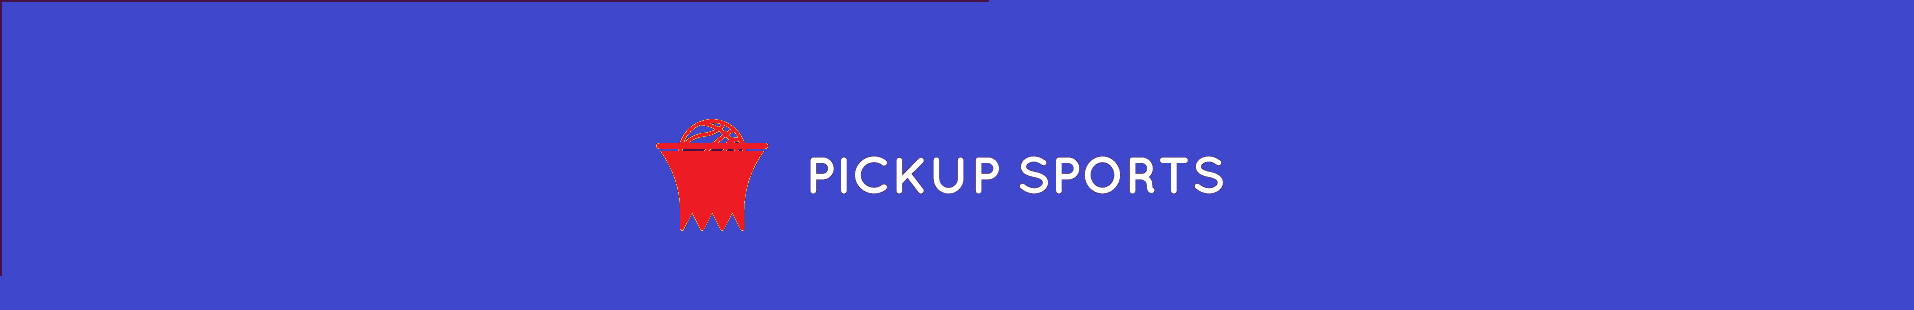
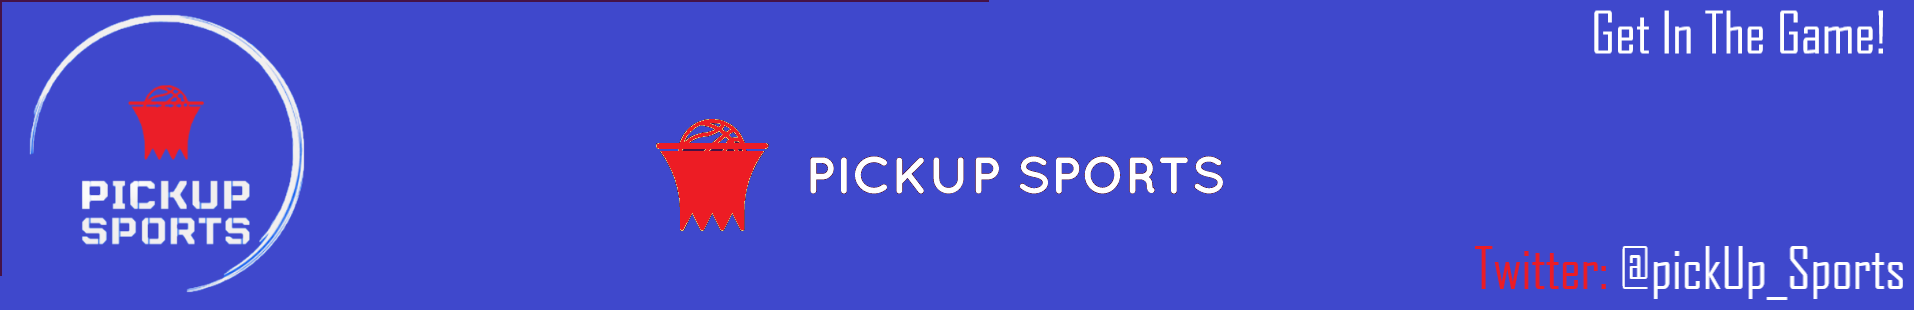
added styling to the header. Changed up sone layout details on index.html added link to twitter page.

diff --git a/PickUpSports/Content/Site.css b/PickUpSports/Content/Site.css
@@ -22,3 +22,12 @@ select,
 textarea {
     max-width: 280px;
 }
+
+.body-content {
+   
+}
+
+h2{
+    color:whitesmoke;
+    font-family:'Trebuchet MS'
+}

diff --git a/PickUpSports/Content/CSSStyle.css b/PickUpSports/Content/CSSStyle.css
@@ -115,7 +115,6 @@
             }
 }
 
-#logo-main{
-    
-
+#logo-main {
+    object-fit: cover;
 }
